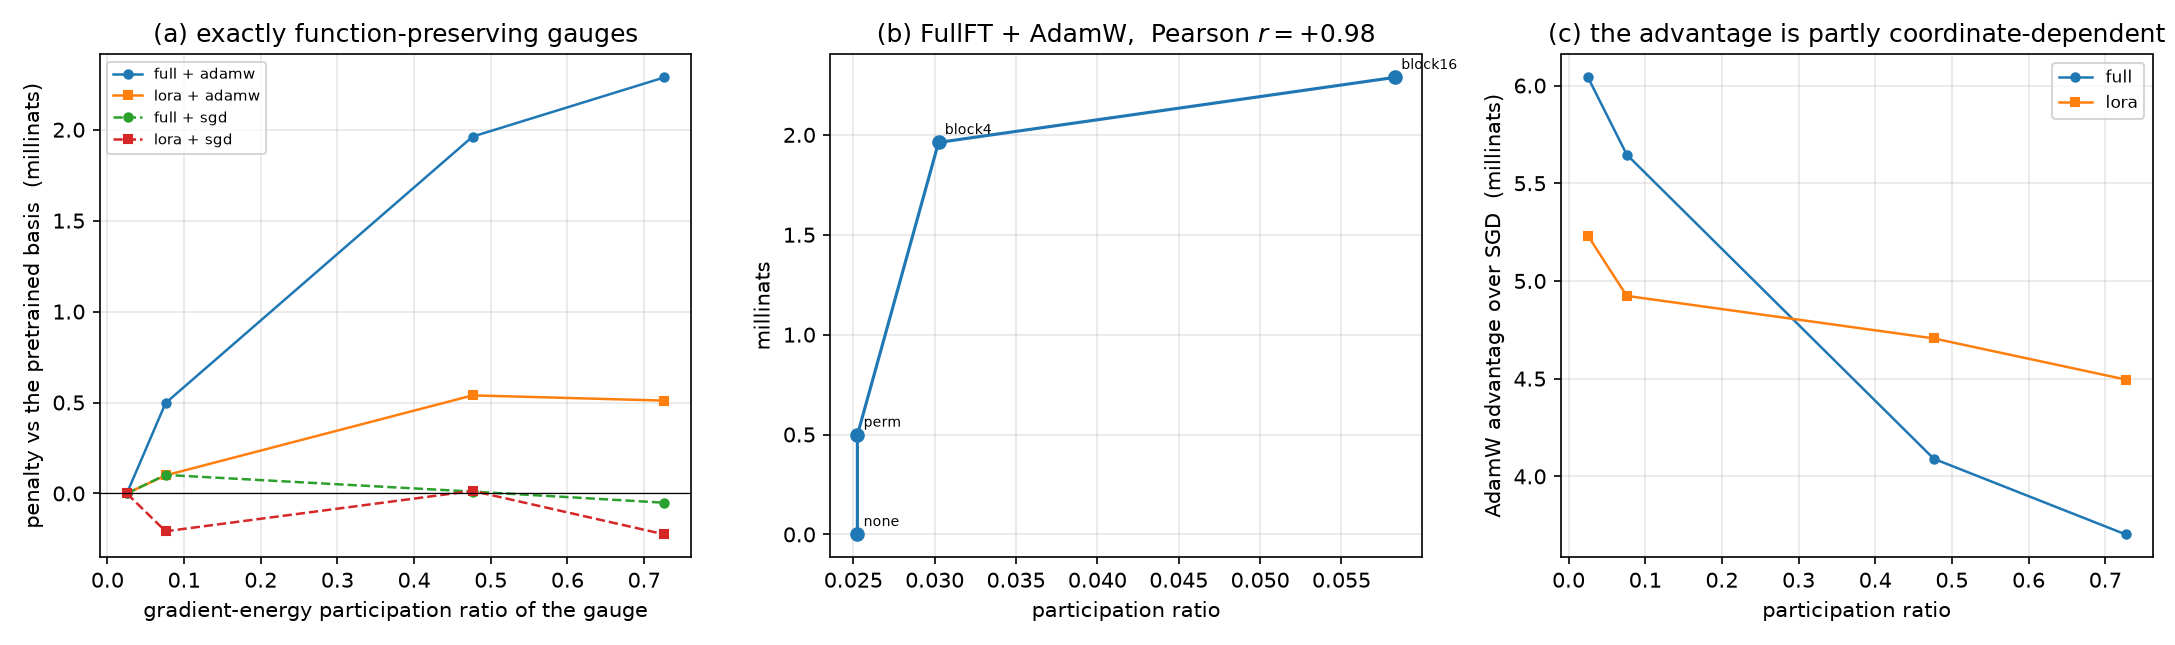
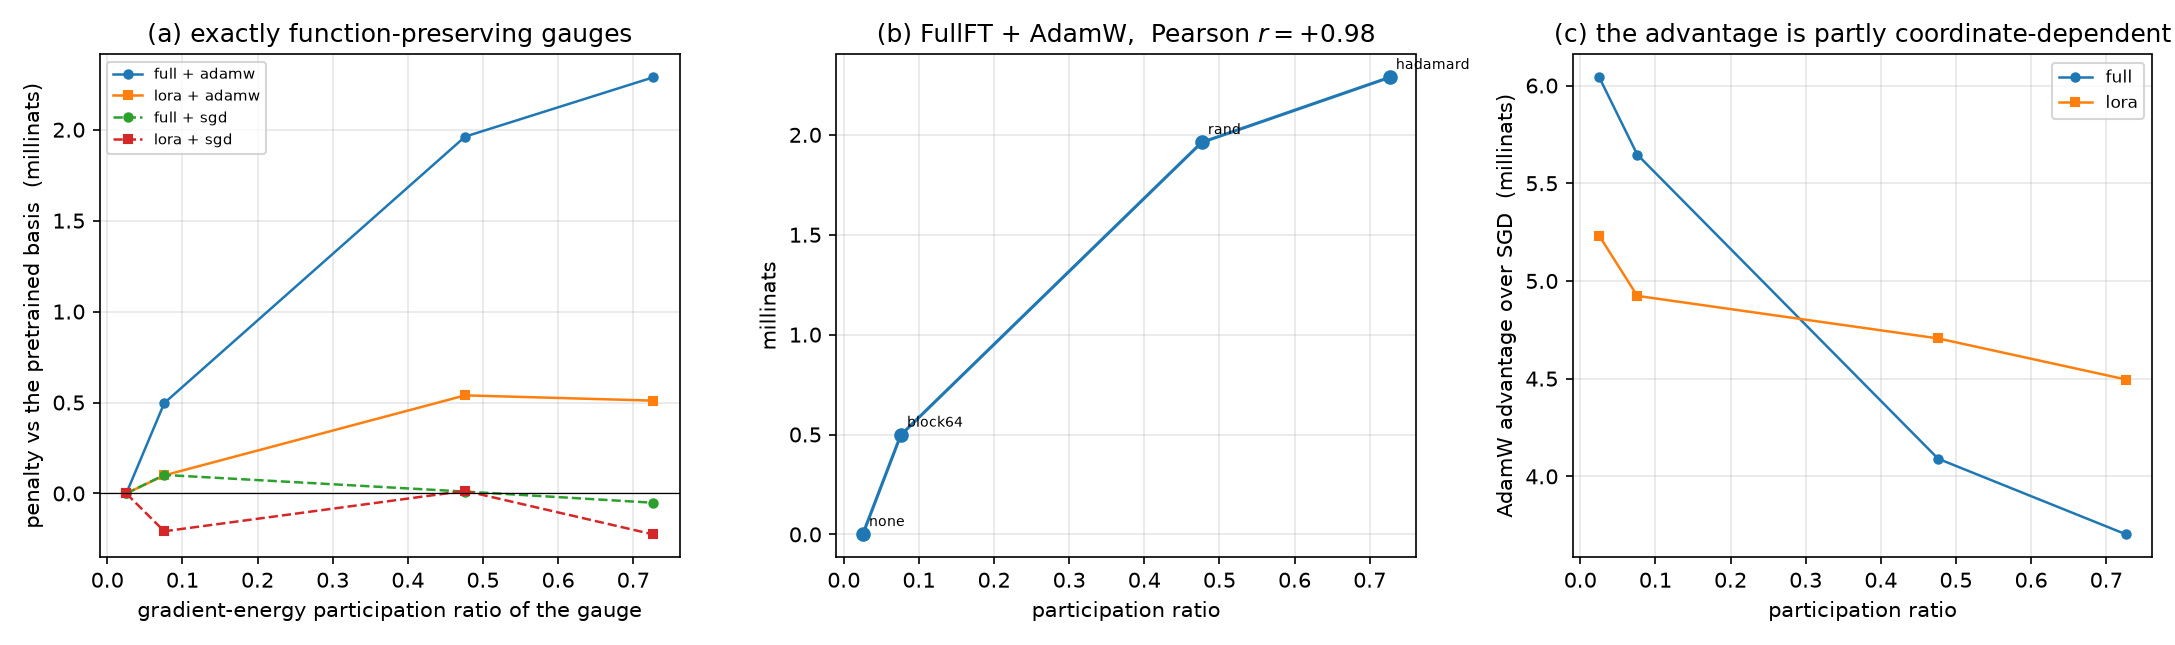
Fix gauge-ladder figure labels for panels with a rung subset

diff --git a/02-representation-gauge/src/make_plots.py b/02-representation-gauge/src/make_plots.py
@@ -44,12 +44,13 @@ def main(tag="dose"):
     ax[0].legend(fontsize=7); ax[0].grid(alpha=.3)
     ax[0].set_title("(a) exactly function-preserving gauges")
 
-    # (b) annotated ladder
-    xs = [dd[g]["PR"] for g in ORDER]
+    # (b) annotated ladder -- only the rungs this panel actually contains
+    present = [g for g in ORDER if ("full", "adamw", g) in B]
+    xs = [dd[g]["PR"] for g in present]
     ys = [1000 * (B[("full", "adamw", g)] - B[("full", "adamw", "none")])
-          for g in ORDER if ("full", "adamw", g) in B]
-    ax[1].plot(xs[:len(ys)], ys, "o-", color="C0")
-    for g, x, y in zip(ORDER, xs, ys):
+          for g in present]
+    ax[1].plot(xs, ys, "o-", color="C0")
+    for g, x, y in zip(present, xs, ys):
         ax[1].annotate(g, (x, y), fontsize=6.5, xytext=(3, 4),
                        textcoords="offset points")
     ax[1].set_xlabel("participation ratio"); ax[1].set_ylabel("millinats")
